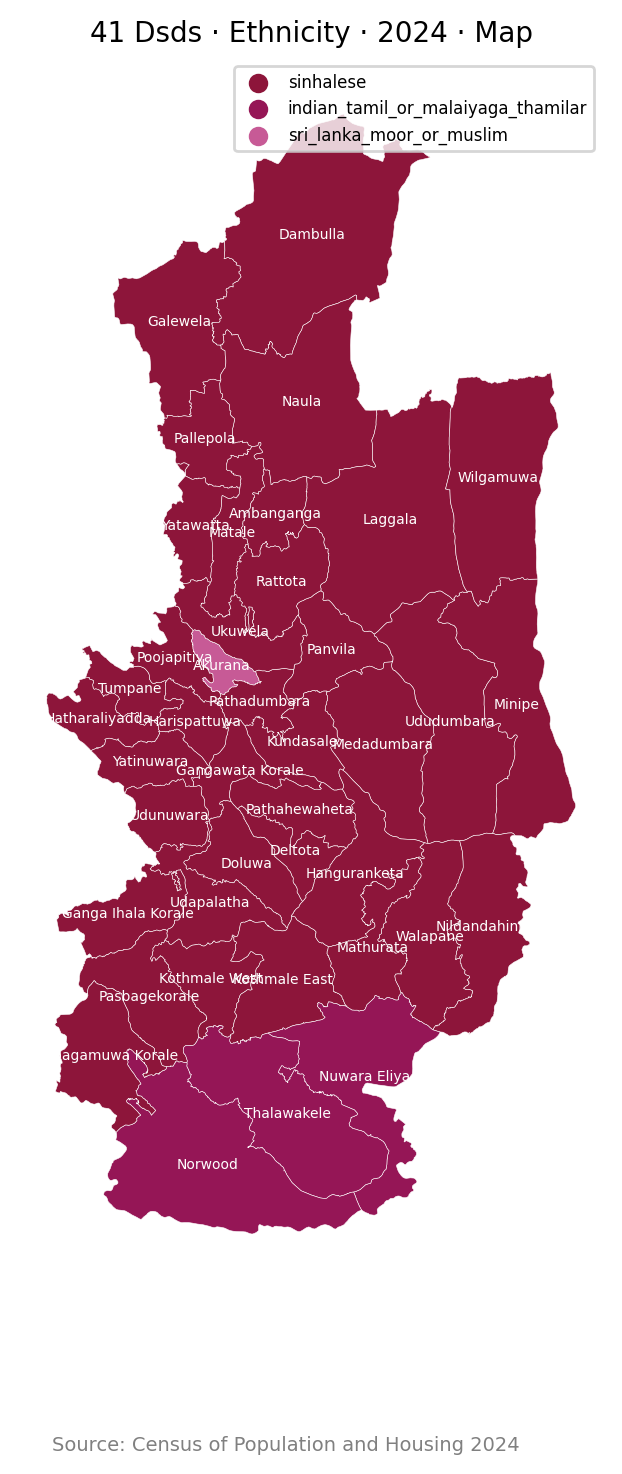
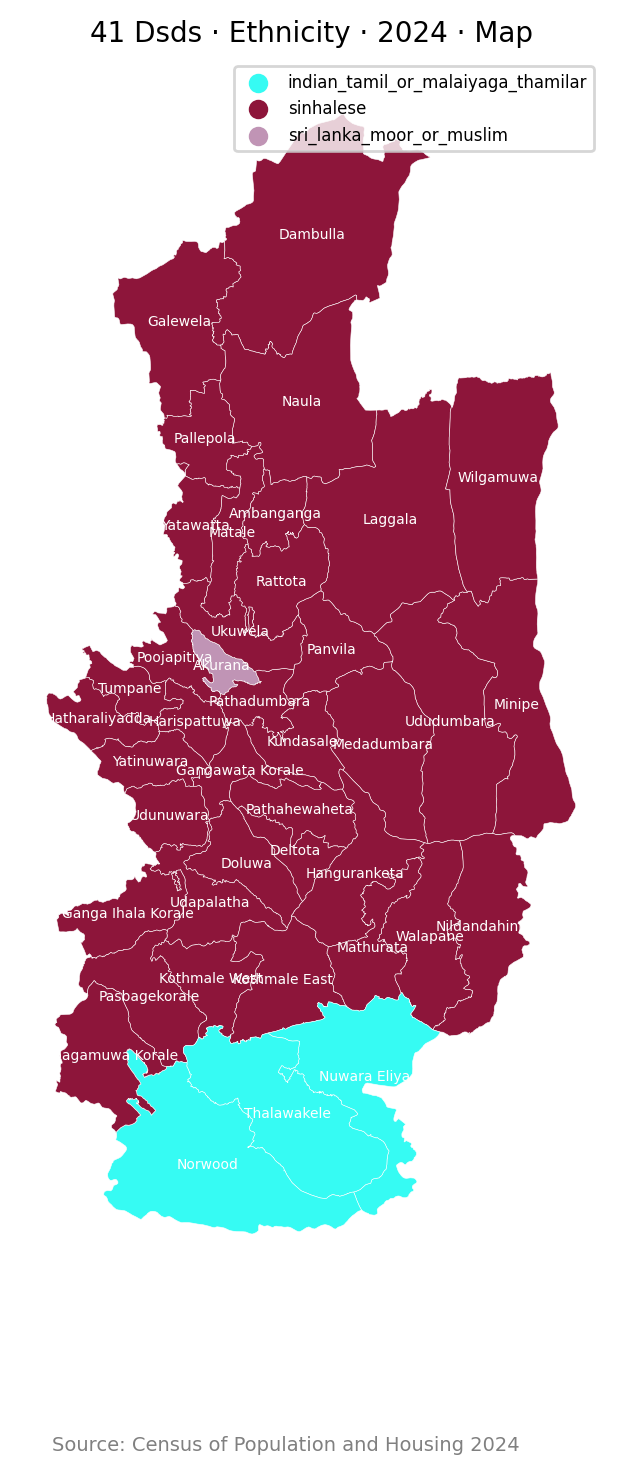
Refactor MapUtils methods to enhance color mapping and improve legend drawing logic

diff --git a/src/lanka_data/where/MapUtils.py b/src/lanka_data/where/MapUtils.py
@@ -52,32 +52,38 @@ class MapUtils:
         data_list = result.get_data()["data_list"]
         n_regions = len(data_list)
         cmap = plt.cm.tab20  # pylint: disable=no-member.
-        colors = [cmap(i % 20) for i in range(n_regions)]
-        return colors
+        return {
+            data["region_id"]: cmap(i % 20)
+            for i, data in enumerate(data_list[:n_regions])
+        }
 
     @staticmethod
     def get_colors_for_data_list_with_values(result):
         data_list = result.get_data()["data_list"]
-        color_idx = {}
-        colors = []
+        value_to_color = {}
+        region_color_map = {}
         for data in data_list:
             max_value_key = list(result.what.get_values(data).keys())[0]
-            if max_value_key not in color_idx:
+            if max_value_key not in value_to_color:
                 color = (
                     MapUtils.COLOR_IDX[max_value_key]
                     if max_value_key in MapUtils.COLOR_IDX
                     else MapUtils.get_random_color()
                 )
-                color_idx[max_value_key] = color
-            colors.append(color_idx[max_value_key])
-        return colors
+                value_to_color[max_value_key] = color
+            region_color_map[data["region_id"]] = value_to_color[
+                max_value_key
+            ]
+        return region_color_map
 
     @staticmethod
     def get_colors_for_data_list(result):
         data_list = result.get_data()["data_list"]
         if result.what.get_values(data_list[0]) is None:
             return MapUtils.get_colors_for_data_list_without_values(result)
-        return MapUtils.get_colors_for_data_list_with_values(result)
+        return MapUtils.get_colors_for_data_list_with_values(
+            result
+        )  # region_id -> color
 
     @staticmethod
     def _draw_labels(gdf_region, ax):
@@ -93,15 +99,18 @@ class MapUtils:
             )
 
     @staticmethod
-    def _draw_legend(result, data_list, colors, ax):
+    def _draw_legend(result, data_list, region_color_map, ax):
         if result.what.get_values(data_list[0]) is not None:
-            unique_colors = list(sorted(set(colors)))
-            for color in unique_colors:
-                idx = colors.index(color)
-                label = max(
-                    result.what.get_values(data_list[idx]),
-                    key=result.what.get_values(data_list[idx]).get,
-                )
+            seen = {}
+            for data in data_list:
+                color = region_color_map[data["region_id"]]
+                if color not in seen:
+                    label = max(
+                        result.what.get_values(data),
+                        key=result.what.get_values(data).get,
+                    )
+                    seen[color] = label
+            for color, label in sorted(seen.items()):
                 ax.scatter([], [], color=color, label=label)
             ax.legend(fontsize=6)
 
@@ -116,8 +125,8 @@ class MapUtils:
         gdf_region = GeoUtils.get_geopandas_dataframe(region_ids)
 
         gdf_region = gdf_region.copy()
-        colors = MapUtils.get_colors_for_data_list(result)
-        gdf_region["color"] = colors
+        region_color_map = MapUtils.get_colors_for_data_list(result)
+        gdf_region["color"] = gdf_region["id"].map(region_color_map)
 
         fig, ax = plt.subplots(figsize=(10, 8))
         gdf_region.plot(
@@ -131,7 +140,7 @@ class MapUtils:
         if n_regions <= MapUtils.MAX_REGIONS_TO_LABEL:
             MapUtils._draw_labels(gdf_region, ax)
 
-        MapUtils._draw_legend(result, data_list, colors, ax)
+        MapUtils._draw_legend(result, data_list, region_color_map, ax)
         title = MapUtils.DELIM_TITLE.join(result.get_title_items())
         ax.set_title(title, fontsize=10)
         ax.set_axis_off()
@@ -147,7 +156,9 @@ class MapUtils:
                 color="gray",
             )
 
-        image_dir = os.path.join(tempfile.gettempdir(), "lanka_data", "images")
+        image_dir = os.path.join(
+            tempfile.gettempdir(), "lanka_data", "images"
+        )
         os.makedirs(image_dir, exist_ok=True)
         image_path = os.path.join(image_dir, f"{h}.png")
         fig.savefig(image_path, dpi=200, bbox_inches="tight")